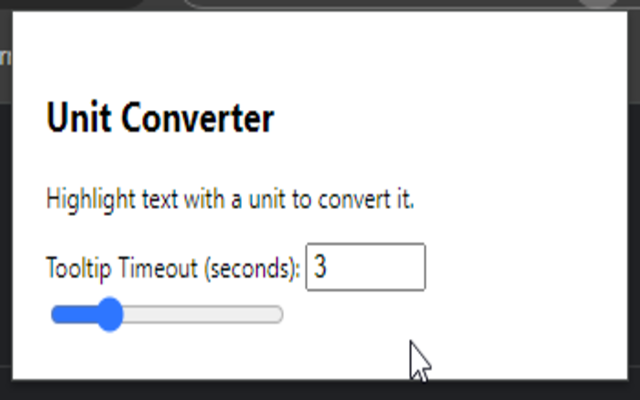
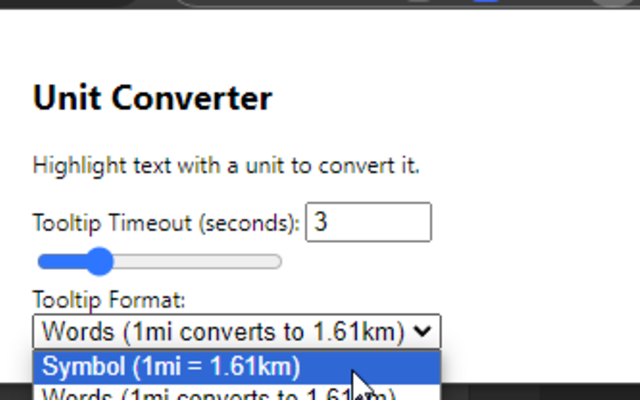
1.2
-improve regex
-fix invalid selection logic
-add ounce <-> grams support

Changed region(s): [[0.0, 0.0, 1.0, 1.0]]

diff --git a/extension/background.js b/extension/background.js
@@ -9,78 +9,98 @@ chrome.runtime.onInstalled.addListener(() => {
 
 // Handle context menu click
 chrome.contextMenus.onClicked.addListener(async (info, tab) => {
+
+    
     if (info.menuItemId === "convertUnit") {
         const { selectionText } = info;
-        const unitMatch = selectionText.match(/([\d,]+(\.\d+)?)\s*(miles?|mi|km|kilometers?|°?C|°?F|kg|kilograms?|lbs?|pounds|"|inches|cm|centimeter|inch|centimeters?)/i);
+        const unitMatch = selectionText.trim().match(/(\d+(?:,\d{3})*(\.\d+)?)?\s*(miles?|mi|km|kilometers?|°?C\b|°?F\b|kg|kilograms?|lbs?|pounds?|"|inches|cm|centimeters?|inch(?:es)?|oz|ounces?|g|grams?)\b/i);
         if (unitMatch) {
-            const value = parseFloat(unitMatch[1].replace(/,/g, ''));
             const unit = unitMatch[3].toLowerCase();
-            let result;
-            let origin;
-            let dest;
-            let message;
-
-            switch(unit) {
-                case 'c':
-                case '°c':
-                    result = ((value * 9/5) + 32).toLocaleString(undefined, {maximumFractionDigits: 2});
-                    origin = `\u00B0C`; 
-                    dest = `\u00B0F`;
-                    break;
-                case 'f':
-                case '°f':
-                    result = ((value - 32) * 5/9).toLocaleString(undefined, {maximumFractionDigits: 2});
-                    origin = `\u00B0F`;
-                    dest = `\u00B0C`;
-                    break;
-                case 'km':
-                case 'kilometer':
-                case 'kilometers':
-                    result = (value * 0.621371).toLocaleString(undefined, {maximumFractionDigits: 2});
-                    origin = "km";
-                    dest = "mi";
-                    break;
-                case 'mi':
-                case 'mile':
-                case 'miles':
-                    result = (value * 1.60934).toLocaleString(undefined, {maximumFractionDigits: 2});
-                    origin = 'mi';
-                    dest = 'km';
-                    break;
-                case 'kg':
-                case 'kilogram':
-                case 'kilograms':
-                    result = (value * 2.20462).toLocaleString(undefined, {maximumFractionDigits: 2});
-                    origin = 'kg';
-                    dest = 'lb';
-                    break;
-                case 'lb':
-                case 'lbs':
-                case 'pound':
-                case 'pounds':
-                    result = (value * 0.453592).toLocaleString(undefined, {maximumFractionDigits: 2});
-                    origin = 'lb';
-                    dest = 'kg';
-                    break;
-                case '"':
-                case 'inches':
-                case 'inch':
-                    result = (value * 2.54).toLocaleString(undefined, {maximumFractionDigits: 2});
-                    origin = '"'; 
-                    dest = 'cm';
-                    break;
-                case 'cm':
-                case 'centimeter':
-                case 'centimeters':
-                    result = (value * 0.393701).toLocaleString(undefined, {maximumFractionDigits: 2});
-                    origin = 'cm';
-                    dest = '"';
-                    break;
-                default:
-                    break;
+            let value = unitMatch[1],
+                result,
+                origin,
+                dest,
+                message;
+            if (!value) {
+                message = "Invalid selection.";
+            } else {
+                value = parseFloat(unitMatch[1].replace(/,/g, ''));
+                
+                switch(unit) {
+                    case 'c':
+                    case '°c':
+                        result = ((value * 9/5) + 32).toLocaleString(undefined, {maximumFractionDigits: 2});
+                        origin = `\u00B0C`; 
+                        dest = `\u00B0F`;
+                        break;
+                    case 'f':
+                    case '°f':
+                        result = ((value - 32) * 5/9).toLocaleString(undefined, {maximumFractionDigits: 2});
+                        origin = `\u00B0F`;
+                        dest = `\u00B0C`;
+                        break;
+                    case 'km':
+                    case 'kilometer':
+                    case 'kilometers':
+                        result = (value * 0.621371).toLocaleString(undefined, {maximumFractionDigits: 2});
+                        origin = "km";
+                        dest = "mi";
+                        break;
+                    case 'mi':
+                    case 'mile':
+                    case 'miles':
+                        result = (value * 1.60934).toLocaleString(undefined, {maximumFractionDigits: 2});
+                        origin = 'mi';
+                        dest = 'km';
+                        break;
+                    case 'kg':
+                    case 'kilogram':
+                    case 'kilograms':
+                        result = (value * 2.20462).toLocaleString(undefined, {maximumFractionDigits: 2});
+                        origin = 'kg';
+                        dest = 'lb';
+                        break;
+                    case 'lb':
+                    case 'lbs':
+                    case 'pound':
+                    case 'pounds':
+                        result = (value * 0.453592).toLocaleString(undefined, {maximumFractionDigits: 2});
+                        origin = 'lb';
+                        dest = 'kg';
+                        break;
+                    case '"':
+                    case 'inches':
+                    case 'inch':
+                        result = (value * 2.54).toLocaleString(undefined, {maximumFractionDigits: 2});
+                        origin = '"'; 
+                        dest = 'cm';
+                        break;
+                    case 'cm':
+                    case 'centimeter':
+                    case 'centimeters':
+                        result = (value * 0.393701).toLocaleString(undefined, {maximumFractionDigits: 2});
+                        origin = 'cm';
+                        dest = '"';
+                        break;
+                    case 'oz':
+                    case 'ounce':
+                    case 'ounces':
+                        result = (value * 28.3495).toLocaleString(undefined, {maximumFractionDigits: 2});
+                        origin = 'oz';
+                        dest = 'g';
+                        break;
+                    case 'g':
+                    case 'gram':
+                    case 'grams':
+                        result = (value * 0.035274).toLocaleString(undefined, {maximumFractionDigits: 2});
+                        origin = 'g';
+                        dest = 'oz';
+                        break;
+                    default:
+                        break;
+                }
             }
-
-            if (result) {
+            if (!message) {
                 const data = {
                     from: `${value.toLocaleString()}${origin}`,
                     to: `${result}${dest}`
@@ -89,8 +109,6 @@ chrome.contextMenus.onClicked.addListener(async (info, tab) => {
                 message = tooltipFormat === '='
                     ? `${data.from} = ${data.to}`
                     : `${data.from} converts to ${data.to}`
-            } else {
-                message = 'Invalid selection.'
             }
 
             await chrome.tabs.sendMessage(tab.id, {action: 'showResult', message: message})
